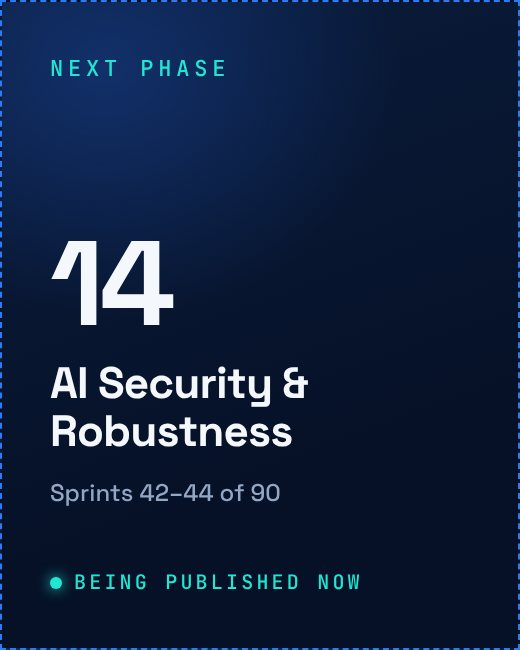
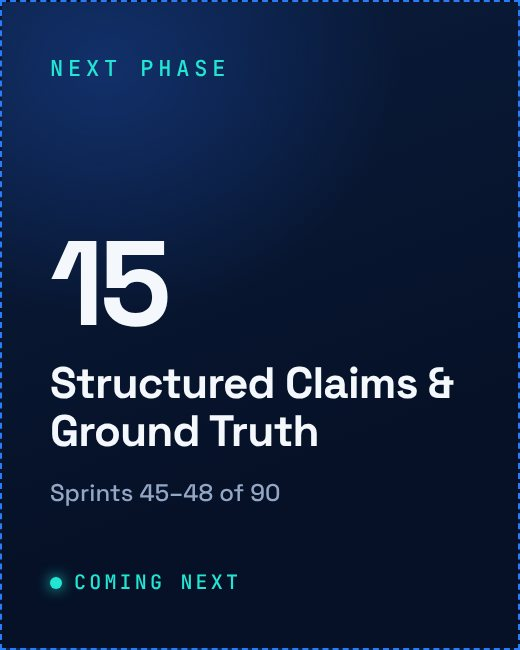
Add Phase 14: AI Security & Robustness
Sprints 42–44 and the phase summary, as first published on
7–10 November 2026.

Version DOI 10.5281/zenodo.24142098 (concept DOI 10.5281/zenodo.24142097).

- New phase page with its four images, thumbnail and citation entry.
- Phase 13's page now links forward to Phase 14.
- The next-phase tile moves to Phase 15, Structured Claims & Ground Truth.

Checks: build.py --check reports 313 links and 59 checksums, all good;
the four images match the delivered files byte for byte.

Claude-Session: https://claude.ai/code/session_01SDAN6YsBYAhoiaSvVJaJH8

diff --git a/tools/series_data.py b/tools/series_data.py
@@ -253,6 +253,24 @@ PHASES = [
                  covers="Retrieve then generate, recall as the ceiling on every answer, a retriever that always returns something, and the choice to cite or abstain.",
                  tryit="A judged passage reaches the top five for 77% of questions; a score floor that keeps 90% of answerable questions still lets 84% through once every judged paper is hidden."),
          ]),
+    dict(n=14, title="AI Security & Robustness", first="2026-11-07", v="10.5281/zenodo.24142098", c="10.5281/zenodo.24142097",
+         line="A small change to an input, a few bad training examples, an instruction slipped into the text a model reads: three attacks, each checked on real data.",
+         result="On 540 handwritten digits, random noise of ±2 grey levels leaves a small network at 95.4%; a chosen 10-step attack of the same size leaves 21.5%.",
+         summary="MT24_Learning_Phase14_Summary.png",
+         sprints=[
+            dict(n=42, title="Adversarial Examples: Small Changes, Wrong Answers", file="MT24_Learning_Phase14_Sprint42_Adversarial_Examples_Small_Changes_Wrong_Answers.png",
+                 tagline="Random noise barely moves a model. A change of the same size, chosen against it, breaks it.",
+                 covers="What an adversarial example is, why noise and a chosen change differ, how many small pushes add up across many pixels, and how attacks travel between models.",
+                 tryit="On 540 handwritten digits, ±2 grey levels of random noise leave a small network at 95.4% and a 10-step gradient-sign attack leaves 21.5%; a linear model retrained on old attacks holds 88.5% against them and 15.9% against a fresh one."),
+            dict(n=43, title="Poisoned Data: Attacks Through Training & Retrieval", file="MT24_Learning_Phase14_Sprint43_Poisoned_Data_Attacks_Through_Training_Retrieval.png",
+                 tagline="A few planted examples can teach a model a secret password. Clean tests never type it.",
+                 covers="What data poisoning is, why a few examples can be enough, a hidden trigger that clean tests never type, and planted passages in retrieval.",
+                 tryit="In my own spam filter (logistic regression on real SMS messages), 40 relabelled messages (1.0% of 3,941) cut the triggered spam it catches from 87.5% to 25.4% while clean tests look normal; in a BM25 index of the Cranfield abstracts, a plant copying each question ranks first for 223 of 225 questions."),
+            dict(n=44, title="Prompt Injection: When Data Becomes an Instruction", file="MT24_Learning_Phase14_Sprint44_Prompt_Injection_When_Data_Becomes_an_Instruction.png",
+                 tagline="Roles label the rules and the attack, but the model reads both as one stream of tokens.",
+                 covers="What prompt injection is, why firm wording in the rules is no guarantee, what a phrase blocklist misses, and instructions hidden in retrieved text.",
+                 tryit="In 1,346 real Tensor Trust pairs where a human attack fooled at least 2 of 3 models from 2023, 72.3% of the defences had a \"never / do not\" rule and a blocklist of 6 known phrase patterns caught 11.9% of the attacks; no language model was run here."),
+         ]),
 ]
 
 MILESTONES = [
@@ -264,4 +282,4 @@ MILESTONES = [
              "result and the DOI of its archived edition."),
 ]
 
-NEXT = dict(n=14, title="AI Security & Robustness", sprints="42–44", status="publishing")
+NEXT = dict(n=15, title="Structured Claims & Ground Truth", sprints="45–48", status="next")

diff --git a/README.md b/README.md
@@ -3,8 +3,8 @@
 </p>
 
 <p align="center">
-  <a href="#phases"><img src="https://img.shields.io/badge/phases%20archived-13%20of%2027-0B9C93?style=flat-square" alt="phases archived: 13 of 27"></a>
-  <a href="#every-sprint"><img src="https://img.shields.io/badge/sprints-41%20of%2090-2A7CF6?style=flat-square" alt="sprints: 41 of 90"></a>
+  <a href="#phases"><img src="https://img.shields.io/badge/phases%20archived-14%20of%2027-0B9C93?style=flat-square" alt="phases archived: 14 of 27"></a>
+  <a href="#every-sprint"><img src="https://img.shields.io/badge/sprints-44%20of%2090-2A7CF6?style=flat-square" alt="sprints: 44 of 90"></a>
   <a href="https://zenodo.org/communities/mt24-learning"><img src="https://img.shields.io/badge/archive-Zenodo-1682D4?style=flat-square" alt="archive: Zenodo"></a>
   <a href="LICENSE"><img src="https://img.shields.io/badge/licence-CC%20BY--NC--SA%204.0-061127?style=flat-square" alt="licence: CC BY-NC-SA 4.0"></a>
 </p>
@@ -15,7 +15,7 @@
 
 This repository is the browsable index of the series: every published sprint, every phase summary and the DOI of each phase's archived edition. The permanent, citable archive lives on Zenodo, in the [MT24 Learning community](https://zenodo.org/communities/mt24-learning).
 
-**Progress:** 13 of 27 phases archived, 41 of 90 sprints (46%).
+**Progress:** 14 of 27 phases archived, 44 of 90 sprints (49%).
 
 ## Phases
 
@@ -43,7 +43,10 @@ This repository is the browsable index of the series: every published sprint, ev
   <tr>
     <td align="center" valign="top" width="33%"><a href="phases/phase-12-the-complexity-lens/README.md"><img src="assets/thumbs/phase-12.jpg" width="260" alt="Phase 12 summary: The Complexity Lens"></a><br><a href="phases/phase-12-the-complexity-lens/README.md"><b>Phase 12</b> · The Complexity Lens</a><br><sub>Sprints 36–38</sub></td>
     <td align="center" valign="top" width="33%"><a href="phases/phase-13-semantic-search-and-retrieval/README.md"><img src="assets/thumbs/phase-13.jpg" width="260" alt="Phase 13 summary: Semantic Search & Retrieval"></a><br><a href="phases/phase-13-semantic-search-and-retrieval/README.md"><b>Phase 13</b> · Semantic Search & Retrieval</a><br><sub>Sprints 39–41</sub></td>
-    <td align="center" valign="top" width="33%"><img src="assets/thumbs/next-phase.jpg" width="260" alt="Phase 14, being published now"><br><b>Phase 14</b> · AI Security & Robustness<br><sub>Being published now</sub></td>
+    <td align="center" valign="top" width="33%"><a href="phases/phase-14-ai-security-and-robustness/README.md"><img src="assets/thumbs/phase-14.jpg" width="260" alt="Phase 14 summary: AI Security & Robustness"></a><br><a href="phases/phase-14-ai-security-and-robustness/README.md"><b>Phase 14</b> · AI Security & Robustness</a><br><sub>Sprints 42–44</sub></td>
+  </tr>
+  <tr>
+    <td align="center" valign="top" width="33%"><img src="assets/thumbs/next-phase.jpg" width="260" alt="Phase 15, coming next"><br><b>Phase 15</b> · Structured Claims & Ground Truth<br><sub>Coming next</sub></td>
   </tr>
 </table>
 
@@ -62,13 +65,14 @@ This repository is the browsable index of the series: every published sprint, ev
 | 11 | [Transformers & Vector Spaces](phases/phase-11-transformers-and-vector-spaces/README.md) | 33–35 | 12 October 2026 | [10.5281/zenodo.23500512](https://doi.org/10.5281/zenodo.23500512) |
 | 12 | [The Complexity Lens](phases/phase-12-the-complexity-lens/README.md) | 36–38 | 20 October 2026 | [10.5281/zenodo.23694200](https://doi.org/10.5281/zenodo.23694200) |
 | 13 | [Semantic Search & Retrieval](phases/phase-13-semantic-search-and-retrieval/README.md) | 39–41 | 27 October 2026 | [10.5281/zenodo.24012904](https://doi.org/10.5281/zenodo.24012904) |
+| 14 | [AI Security & Robustness](phases/phase-14-ai-security-and-robustness/README.md) | 42–44 | 7 November 2026 | [10.5281/zenodo.24142098](https://doi.org/10.5281/zenodo.24142098) |
 
-Phase 14, *AI Security & Robustness* (Sprints 42–44), is being published now. A phase joins this repository after all of its images are public and its edition is archived on Zenodo.
+Phase 15, *Structured Claims & Ground Truth* (Sprints 45–48), comes next. A phase joins this repository after all of its images are public and its edition is archived on Zenodo.
 
 ## Every sprint
 
 <details>
-<summary>All 41 published sprints, in order</summary>
+<summary>All 44 published sprints, in order</summary>
 
 | Sprint | Title | Phase |
 | ---: | --- | --- |
@@ -113,6 +117,9 @@ Phase 14, *AI Security & Robustness* (Sprints 42–44), is being published now. 
 | 39 | [Keyword Search: Inverted Index & BM25](phases/phase-13-semantic-search-and-retrieval/README.md#sprint-3990--keyword-search-inverted-index--bm25) | 13 · Semantic Search & Retrieval |
 | 40 | [Searching by Meaning: Dense & Hybrid Retrieval](phases/phase-13-semantic-search-and-retrieval/README.md#sprint-4090--searching-by-meaning-dense--hybrid-retrieval) | 13 · Semantic Search & Retrieval |
 | 41 | [Retrieval-Augmented Generation: A Working Demo](phases/phase-13-semantic-search-and-retrieval/README.md#sprint-4190--retrieval-augmented-generation-a-working-demo) | 13 · Semantic Search & Retrieval |
+| 42 | [Adversarial Examples: Small Changes, Wrong Answers](phases/phase-14-ai-security-and-robustness/README.md#sprint-4290--adversarial-examples-small-changes-wrong-answers) | 14 · AI Security & Robustness |
+| 43 | [Poisoned Data: Attacks Through Training & Retrieval](phases/phase-14-ai-security-and-robustness/README.md#sprint-4390--poisoned-data-attacks-through-training--retrieval) | 14 · AI Security & Robustness |
+| 44 | [Prompt Injection: When Data Becomes an Instruction](phases/phase-14-ai-security-and-robustness/README.md#sprint-4490--prompt-injection-when-data-becomes-an-instruction) | 14 · AI Security & Robustness |
 
 </details>
 

diff --git a/phases/phase-14-ai-security-and-robustness/README.md b/phases/phase-14-ai-security-and-robustness/README.md
@@ -1,0 +1,57 @@
+<sub>[← Phase 13](../phase-13-semantic-search-and-retrieval/README.md) · [All phases](../../README.md)</sub>
+
+# Phase 14 · AI Security & Robustness
+
+**Sprints 42–44 of 90** · first published 7 November 2026 · archived on Zenodo, DOI [10.5281/zenodo.24142098](https://doi.org/10.5281/zenodo.24142098)
+
+> A small change to an input, a few bad training examples, an instruction slipped into the text a model reads: three attacks, each checked on real data.
+
+## Phase summary
+
+<a href="MT24_Learning_Phase14_Summary.png"><img src="MT24_Learning_Phase14_Summary.png" width="760" alt="Phase 14 summary page: AI Security & Robustness, 3 sprints, with what each sprint covers, what I can now do, mistakes avoided and the phase project."></a>
+
+**One result checked in this phase:** On 540 handwritten digits, random noise of ±2 grey levels leaves a small network at 95.4%; a chosen 10-step attack of the same size leaves 21.5%.
+
+## Sprints
+
+### Sprint 42/90 · Adversarial Examples: Small Changes, Wrong Answers
+
+> *Random noise barely moves a model. A change of the same size, chosen against it, breaks it.*
+
+<a href="MT24_Learning_Phase14_Sprint42_Adversarial_Examples_Small_Changes_Wrong_Answers.png"><img src="MT24_Learning_Phase14_Sprint42_Adversarial_Examples_Small_Changes_Wrong_Answers.png" width="760" alt="Sprint 42 of 90 infographic: Adversarial Examples: Small Changes, Wrong Answers. Random noise barely moves a model. A change of the same size, chosen against it, breaks it."></a>
+
+**Covers.** What an adversarial example is, why noise and a chosen change differ, how many small pushes add up across many pixels, and how attacks travel between models.
+
+**Try it.** On 540 handwritten digits, ±2 grey levels of random noise leave a small network at 95.4% and a 10-step gradient-sign attack leaves 21.5%; a linear model retrained on old attacks holds 88.5% against them and 15.9% against a fresh one.
+
+### Sprint 43/90 · Poisoned Data: Attacks Through Training & Retrieval
+
+> *A few planted examples can teach a model a secret password. Clean tests never type it.*
+
+<a href="MT24_Learning_Phase14_Sprint43_Poisoned_Data_Attacks_Through_Training_Retrieval.png"><img src="MT24_Learning_Phase14_Sprint43_Poisoned_Data_Attacks_Through_Training_Retrieval.png" width="760" alt="Sprint 43 of 90 infographic: Poisoned Data: Attacks Through Training & Retrieval. A few planted examples can teach a model a secret password. Clean tests never type it."></a>
+
+**Covers.** What data poisoning is, why a few examples can be enough, a hidden trigger that clean tests never type, and planted passages in retrieval.
+
+**Try it.** In my own spam filter (logistic regression on real SMS messages), 40 relabelled messages (1.0% of 3,941) cut the triggered spam it catches from 87.5% to 25.4% while clean tests look normal; in a BM25 index of the Cranfield abstracts, a plant copying each question ranks first for 223 of 225 questions.
+
+### Sprint 44/90 · Prompt Injection: When Data Becomes an Instruction
+
+> *Roles label the rules and the attack, but the model reads both as one stream of tokens.*
+
+<a href="MT24_Learning_Phase14_Sprint44_Prompt_Injection_When_Data_Becomes_an_Instruction.png"><img src="MT24_Learning_Phase14_Sprint44_Prompt_Injection_When_Data_Becomes_an_Instruction.png" width="760" alt="Sprint 44 of 90 infographic: Prompt Injection: When Data Becomes an Instruction. Roles label the rules and the attack, but the model reads both as one stream of tokens."></a>
+
+**Covers.** What prompt injection is, why firm wording in the rules is no guarantee, what a phrase blocklist misses, and instructions hidden in retrieved text.
+
+**Try it.** In 1,346 real Tensor Trust pairs where a human attack fooled at least 2 of 3 models from 2023, 72.3% of the defences had a "never / do not" rule and a blocklist of 6 known phrase patterns caught 11.9% of the attacks; no language model was run here.
+
+## Cite this phase
+
+```text
+Tahri, M. (2026). MT24 Learning — Knowledge Sprint Series, Phase 14: AI Security & Robustness (Version 1.0) [Educational resource]. Zenodo. https://doi.org/10.5281/zenodo.24142098
+```
+
+This DOI points to version 1.0, the edition archived as first published. To cite every version of this phase, use the concept DOI [10.5281/zenodo.24142097](https://doi.org/10.5281/zenodo.24142097).
+
+---
+
+<sub>[← Phase 13](../phase-13-semantic-search-and-retrieval/README.md) · [All phases](../../README.md)</sub>

diff --git a/phases/phase-13-semantic-search-and-retrieval/README.md b/phases/phase-13-semantic-search-and-retrieval/README.md
@@ -1,4 +1,4 @@
-<sub>[← Phase 12](../phase-12-the-complexity-lens/README.md) · [All phases](../../README.md)</sub>
+<sub>[← Phase 12](../phase-12-the-complexity-lens/README.md) · [All phases](../../README.md) · [Phase 14 →](../phase-14-ai-security-and-robustness/README.md)</sub>
 
 # Phase 13 · Semantic Search & Retrieval
 
@@ -54,4 +54,4 @@ This DOI points to version 1.0, the edition archived as first published. To cite
 
 ---
 
-<sub>[← Phase 12](../phase-12-the-complexity-lens/README.md) · [All phases](../../README.md)</sub>
+<sub>[← Phase 12](../phase-12-the-complexity-lens/README.md) · [All phases](../../README.md) · [Phase 14 →](../phase-14-ai-security-and-robustness/README.md)</sub>
